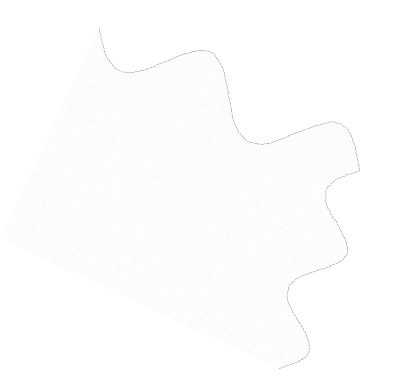
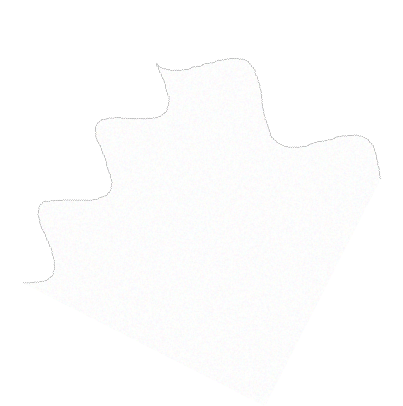
sharp puzzle generation

diff --git a/src/vision/mock_puzzle_creator.py b/src/vision/mock_puzzle_creator.py
@@ -9,16 +9,21 @@ import random
 class MockPuzzleGenerator:
     """Generate realistic mock puzzle pieces for testing."""
     
-    def __init__(self, output_dir: str = "data/mock_pieces"):
+    def __init__(self, output_dir: str = "data/mock_pieces", num_cuts: int | None = None):
         self.output_dir = Path(output_dir)
         self.output_dir.mkdir(parents=True, exist_ok=True)
         
         self.a4_width = 420  # Half scale
         self.a4_height = 594
+        
+        # Randomly choose 2 or 3 cuts if not specified
+        self.num_cuts = 2 #num_cuts if num_cuts is not None else random.choice([2, 3])
+        
+        print(f"Generating puzzle with {self.num_cuts} cuts")
 
     def generate_puzzle(self) -> tuple:
         """
-        Generate a 4-piece puzzle with slanted wavy cuts.
+        Generate a puzzle with 2-3 cuts (wavy or sharp).
         
         Returns:
             (full_image, piece_images, debug_image)
@@ -30,40 +35,57 @@ class MockPuzzleGenerator:
         noise = np.random.randint(-10, 10, (self.a4_height, self.a4_width, 3), dtype=np.int16)
         full_image = np.clip(full_image.astype(np.int16) + noise, 0, 255).astype(np.uint8)
         
-        # Define cut positions with randomness AND rotation
-        center_x = self.a4_width // 2 + random.randint(-30, 30)
-        center_y = self.a4_height // 2 + random.randint(-30, 30)
+        # Generate cuts
+        cuts = []
+        colors = [(255, 0, 0), (0, 0, 255), (0, 255, 0)]  # Red, Blue, Green
         
-        # Add rotation angles for slanted cuts (in degrees)
-        vertical_angle = random.randint(-15, 15)  # Slant the "vertical" cut
-        horizontal_angle = random.randint(-15, 15)  # Slant the "horizontal" cut
-        
-        # Generate vertical cut (with slant)
-        # Instead of perfectly vertical, make it angled
-        offset_top = int(np.tan(np.radians(vertical_angle)) * self.a4_height / 2)
-        vertical_cut = self.generate_wavy_cut(
-            (center_x - offset_top, 0),
-            (center_x + offset_top, self.a4_height),
-            num_waves=4,
-            amplitude=random.randint(20, 40)
-        )
-        
-        # Generate horizontal cut (with slant)
-        offset_left = int(np.tan(np.radians(horizontal_angle)) * self.a4_width / 2)
-        horizontal_cut = self.generate_wavy_cut(
-            (0, center_y - offset_left),
-            (self.a4_width, center_y + offset_left),
-            num_waves=4,
-            amplitude=random.randint(20, 40)
-        )
+        if self.num_cuts == 2:
+            # Generate two cuts (can be vertical/horizontal or diagonal)
+            cuts.append(self._generate_random_cut(orientation='vertical'))
+            cuts.append(self._generate_random_cut(orientation='horizontal'))
+        else:  # 3 cuts
+            # For 3 cuts, we can do various configurations
+            # Option 1: Two verticals, one horizontal
+            # Option 2: Two horizontals, one vertical
+            # Option 3: One vertical, one horizontal, one diagonal
+            
+            config = random.choice(['vvh', 'vhh', 'vhd'])
+            
+            if config == 'vvh':
+                # Two vertical cuts dividing into thirds, one horizontal
+                left_x = self.a4_width // 3 + random.randint(-20, 20)
+                right_x = 2 * self.a4_width // 3 + random.randint(-20, 20)
+                
+                cuts.append(self._generate_cut_between_points(
+                    (left_x, 0), (left_x, self.a4_height)))
+                cuts.append(self._generate_cut_between_points(
+                    (right_x, 0), (right_x, self.a4_height)))
+                cuts.append(self._generate_random_cut(orientation='horizontal'))
+                
+            elif config == 'vhh':
+                # Two horizontal cuts dividing into thirds, one vertical
+                top_y = self.a4_height // 3 + random.randint(-20, 20)
+                bottom_y = 2 * self.a4_height // 3 + random.randint(-20, 20)
+                
+                cuts.append(self._generate_random_cut(orientation='vertical'))
+                cuts.append(self._generate_cut_between_points(
+                    (0, top_y), (self.a4_width, top_y)))
+                cuts.append(self._generate_cut_between_points(
+                    (0, bottom_y), (self.a4_width, bottom_y)))
+                
+            else:  # vhd
+                # One vertical, one horizontal, one diagonal
+                cuts.append(self._generate_random_cut(orientation='vertical'))
+                cuts.append(self._generate_random_cut(orientation='horizontal'))
+                cuts.append(self._generate_random_cut(orientation='diagonal'))
         
         # Draw cuts on image for visualization
         debug_image = full_image.copy()
-        cv2.polylines(debug_image, [vertical_cut], False, (255, 0, 0), 3)
-        cv2.polylines(debug_image, [horizontal_cut], False, (0, 0, 255), 3)
+        for i, cut in enumerate(cuts):
+            cv2.polylines(debug_image, [cut], False, colors[i], 3)
         
         # Create masks for each piece using the actual cut lines
-        piece_masks = self._create_piece_masks_from_cuts(vertical_cut, horizontal_cut)
+        piece_masks = self._create_piece_masks_from_cuts(cuts)
         
         # Extract individual pieces
         piece_images = []
@@ -97,53 +119,87 @@ class MockPuzzleGenerator:
         
         return full_image, piece_images, debug_image
 
-    def _create_piece_masks_from_cuts(self, vertical_cut: np.ndarray, horizontal_cut: np.ndarray) -> list:
-        """Create binary masks for each of the 4 pieces using actual cut lines."""
-        masks = []
+    def _generate_random_cut(self, orientation='vertical') -> np.ndarray:
+        """Generate a random cut with specified orientation."""
+        if orientation == 'vertical':
+            center_x = self.a4_width // 2 + random.randint(-30, 30)
+            angle = random.randint(-15, 15)
+            offset = int(np.tan(np.radians(angle)) * self.a4_height / 2)
+            
+            return self._generate_cut_between_points(
+                (center_x - offset, 0),
+                (center_x + offset, self.a4_height))
+                
+        elif orientation == 'horizontal':
+            center_y = self.a4_height // 2 + random.randint(-30, 30)
+            angle = random.randint(-15, 15)
+            offset = int(np.tan(np.radians(angle)) * self.a4_width / 2)
+            
+            return self._generate_cut_between_points(
+                (0, center_y - offset),
+                (self.a4_width, center_y + offset))
+                
+        else:  # diagonal
+            # Diagonal from one corner area to opposite corner area
+            start_x = random.randint(0, self.a4_width // 4)
+            start_y = random.randint(0, self.a4_height // 4)
+            end_x = random.randint(3 * self.a4_width // 4, self.a4_width)
+            end_y = random.randint(3 * self.a4_height // 4, self.a4_height)
+            
+            return self._generate_cut_between_points(
+                (start_x, start_y),
+                (end_x, end_y))
+    
+    def _generate_cut_between_points(self, start: tuple, end: tuple) -> np.ndarray:
+        """Generate a cut (wavy or sharp) between two points."""
+        cut_type = random.choice(['wavy', 'sharp'])
         
-        # Create a mask for each quadrant by flood filling
-        # First, draw the cuts on a temporary image
+        if cut_type == 'wavy':
+            return self.generate_wavy_cut(
+                start, end,
+                num_waves=random.randint(3, 6),
+                amplitude=random.randint(20, 40))
+        else:
+            return self.generate_sharp_cut(
+                start, end,
+                num_angles=random.randint(4, 8),
+                amplitude=random.randint(30, 60))
+
+    def _create_piece_masks_from_cuts(self, cuts: list) -> list:
+        """Create binary masks for each piece using actual cut lines."""
+        # Create a mask with all cuts drawn
         cut_image = np.zeros((self.a4_height, self.a4_width), dtype=np.uint8)
         
-        # Draw cuts as lines
-        cv2.polylines(cut_image, [vertical_cut], False, 255, 2)
-        cv2.polylines(cut_image, [horizontal_cut], False, 255, 2)
+        # Draw all cuts as barriers
+        for cut in cuts:
+            cv2.polylines(cut_image, [cut], False, 255, 3)
         
         # Invert so cuts are black (barriers)
         cut_image = 255 - cut_image
         
-        # Find seed points for each quadrant (far from cuts)
-        center_x = self.a4_width // 2
-        center_y = self.a4_height // 2
+        # Find all connected regions
+        num_labels, labels, stats, centroids = cv2.connectedComponentsWithStats(
+            cut_image, connectivity=8)
         
-        # Seed points for 4 quadrants (offset from center to avoid cuts)
-        seed_points = [
-            (center_x // 2, center_y // 2),  # Top-left
-            (center_x + center_x // 2, center_y // 2),  # Top-right
-            (center_x // 2, center_y + center_y // 2),  # Bottom-left
-            (center_x + center_x // 2, center_y + center_y // 2),  # Bottom-right
-        ]
+        # Create masks for each region (skip background label 0)
+        masks = []
+        for label in range(1, num_labels):
+            mask = (labels == label).astype(np.uint8) * 255
+            
+            # Only keep masks with sufficient area
+            area = stats[label, cv2.CC_STAT_AREA]
+            if area > 1000:  # Minimum piece size
+                masks.append(mask)
         
-        for seed in seed_points:
-            # Create mask for this piece using flood fill
-            mask = np.zeros((self.a4_height + 2, self.a4_width + 2), dtype=np.uint8)
-            temp_image = cut_image.copy()
-            
-            # Flood fill from seed point
-            cv2.floodFill(temp_image, mask, seed, 128)
-            
-            # Extract the filled region
-            piece_mask = (temp_image == 128).astype(np.uint8) * 255
-            
-            masks.append(piece_mask)
+        print(f"Created {len(masks)} pieces from {len(cuts)} cuts")
         
         return masks
     
     def generate_wavy_cut(self, 
-                         start: tuple, 
-                         end: tuple, 
-                         num_waves: int = 3,
-                         amplitude: int = 30) -> np.ndarray:
+                          start: tuple, 
+                          end: tuple, 
+                          num_waves: int = 3,
+                          amplitude: int = 30) -> np.ndarray:
         """
         Generate a wavy cut line between two points.
         
@@ -192,54 +248,62 @@ class MockPuzzleGenerator:
         
         return points
     
-    def _create_piece_masks(self, vertical_cut: np.ndarray, horizontal_cut: np.ndarray) -> list:
-        """Create binary masks for each of the 4 pieces."""
-        masks = []
+    def generate_sharp_cut(self,
+                           start: tuple,
+                           end: tuple,
+                           num_angles: int = 5,
+                           amplitude: int = 40) -> np.ndarray:
+        """
+        Generate a sharp zigzag cut line between two points.
         
-        # Create mask for each quadrant
-        # Piece 0: Top-left
-        mask0 = np.zeros((self.a4_height, self.a4_width), dtype=np.uint8)
-        
-        # Fill region to the left of vertical cut and above horizontal cut
-        for y in range(self.a4_height):
-            # Find x position of vertical cut at this y
-            vert_indices = np.where(vertical_cut[:, 1] == y)[0]
-            if len(vert_indices) > 0:
-                x_vert = vertical_cut[vert_indices[0], 0]
-            else:
-                x_vert = self.a4_width // 2
+        Args:
+            start: (x, y) starting point
+            end: (x, y) ending point
+            num_angles: Number of sharp angles/zigzags
+            amplitude: How far each angle deviates from straight line
             
-            # Find y position of horizontal cut
-            horiz_indices = np.where(horizontal_cut[:, 1] == y)[0]
-            if len(horiz_indices) > 0:
-                # Only fill if we're above the horizontal cut
-                if y < self.a4_height // 2:
-                    mask0[y, :x_vert] = 255
+        Returns:
+            Array of points forming the cut line
+        """
+        x1, y1 = start
+        x2, y2 = end
         
-        # Simpler approach: divide into quadrants
-        # This is a simplified version - you can make it more sophisticated
-        center_x = self.a4_width // 2
-        center_y = self.a4_height // 2
+        # Calculate perpendicular direction
+        dx = x2 - x1
+        dy = y2 - y1
+        length = np.sqrt(dx**2 + dy**2)
         
-        # Top-left
-        mask0 = np.zeros((self.a4_height, self.a4_width), dtype=np.uint8)
-        mask0[:center_y, :center_x] = 255
+        if length > 0:
+            perp_x = -dy / length
+            perp_y = dx / length
+        else:
+            perp_x, perp_y = 0, 0
         
-        # Top-right
-        mask1 = np.zeros((self.a4_height, self.a4_width), dtype=np.uint8)
-        mask1[:center_y, center_x:] = 255
+        # Generate points along the line
+        points = [start]
         
-        # Bottom-left
-        mask2 = np.zeros((self.a4_height, self.a4_width), dtype=np.uint8)
-        mask2[center_y:, :center_x] = 255
+        for i in range(1, num_angles + 1):
+            # Position along the line
+            t = i / (num_angles + 1)
+            base_x = x1 + (x2 - x1) * t
+            base_y = y1 + (y2 - y1) * t
+            
+            # Alternate sides for zigzag effect
+            side = 1 if i % 2 == 0 else -1
+            
+            # Random amplitude variation for each angle
+            current_amp = amplitude * random.uniform(0.7, 1.3)
+            
+            # Add perpendicular offset
+            point_x = int(base_x + side * current_amp * perp_x)
+            point_y = int(base_y + side * current_amp * perp_y)
+            
+            points.append((point_x, point_y))
         
-        # Bottom-right
-        mask3 = np.zeros((self.a4_height, self.a4_width), dtype=np.uint8)
-        mask3[center_y:, center_x:] = 255
+        points.append(end)
         
-        masks = [mask0, mask1, mask2, mask3]
-        
-        return masks
+        # Convert to numpy array
+        return np.array(points, dtype=np.int32)
     
     def save_pieces(self, piece_images: list) -> list:
         """Save piece images to disk with random rotations and return file paths."""
@@ -271,7 +335,7 @@ class MockPuzzleGenerator:
             
             # Rotate image and mask
             rotated_image = cv2.warpAffine(image, M, (new_w, new_h), 
-                                        borderValue=(255, 255, 255))
+                                           borderValue=(255, 255, 255))
             rotated_mask = cv2.warpAffine(mask, M, (new_w, new_h))
             
             # Create RGBA image
